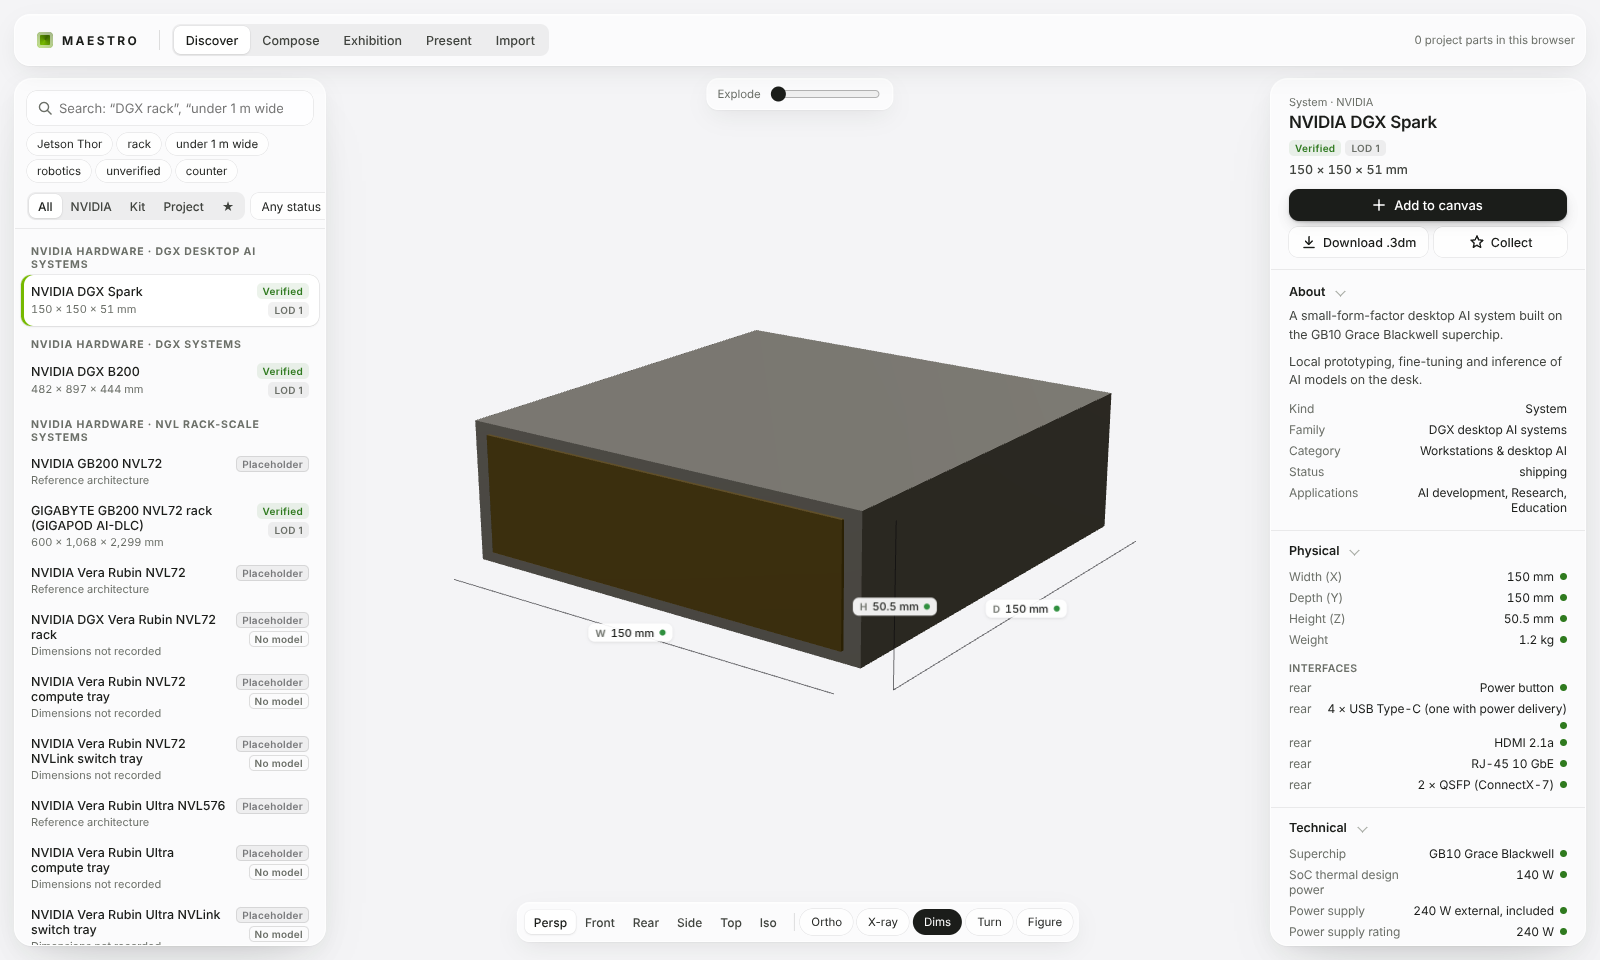
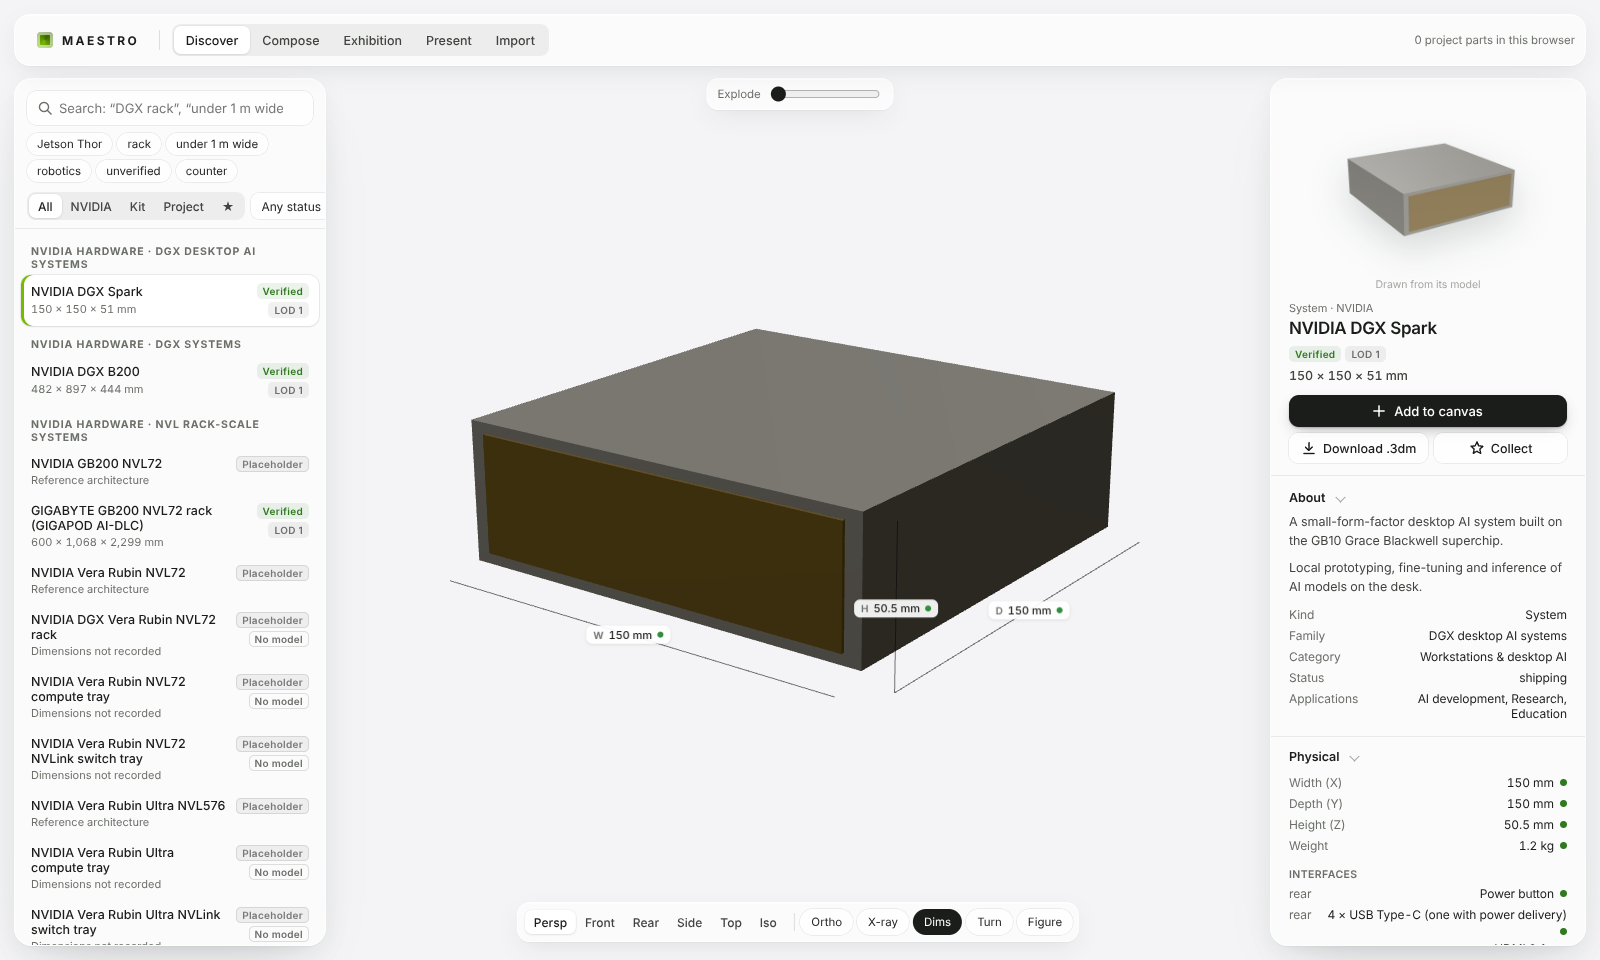
Round 12: floating product image in the inspector
Each product opens with a still drawn from its own model on a transparent
background, above its name. ProductModel.image is a slot for an official
photo, shown with its credit when present.

Claude-Session: https://claude.ai/code/session_01R2EsZ1VyhVPk1HQcY5H7gB

diff --git a/src/viewport/heroRender.ts b/src/viewport/heroRender.ts
@@ -1,0 +1,67 @@
+import * as THREE from 'three';
+import { RoomEnvironment } from 'three/examples/jsm/environments/RoomEnvironment.js';
+import type { Shape } from '../core/geometry/shape';
+import { MM, WORLD_ROTATION, makeMaterial, partGeometry } from './ShapeView';
+
+/**
+ * A product drawn from its own model as a still on a transparent background, three-quarter from the front left,
+ * for the image at the top of the inspector. One offscreen renderer serves every product; stills are cached.
+ */
+const W = 1200, H = 800;
+let renderer: THREE.WebGLRenderer | null = null;
+let env: THREE.Texture | null = null;
+const cache = new Map<string, string>();
+
+function setup(): THREE.WebGLRenderer {
+  if (renderer) return renderer;
+  renderer = new THREE.WebGLRenderer({ alpha: true, antialias: true, preserveDrawingBuffer: true });
+  renderer.setPixelRatio(1);
+  renderer.setSize(W, H, false);
+  renderer.setClearColor(0x000000, 0);
+  renderer.outputColorSpace = THREE.SRGBColorSpace;
+  renderer.toneMapping = THREE.ACESFilmicToneMapping;
+  renderer.toneMappingExposure = 0.85;
+  const pm = new THREE.PMREMGenerator(renderer);
+  env = pm.fromScene(new RoomEnvironment(), 0.04).texture;
+  pm.dispose();
+  return renderer;
+}
+
+/** a PNG data URL of the shape, or null when WebGL is unavailable */
+export function heroImage(key: string, shape: Shape): string | null {
+  const hit = cache.get(key);
+  if (hit) return hit;
+  let r: THREE.WebGLRenderer;
+  try { r = setup(); } catch { return null; }
+  const scene = new THREE.Scene();
+  scene.environment = env;
+  scene.environmentIntensity = 0.55;
+  scene.add(new THREE.HemisphereLight('#ffffff', '#d9d6d0', 0.6));
+  const key1 = new THREE.DirectionalLight('#ffffff', 1.6);
+  scene.add(key1);
+  const root = new THREE.Group();
+  root.rotation.copy(WORLD_ROTATION);
+  root.scale.setScalar(MM);
+  const geoms = shape.parts.map(partGeometry);
+  const mats = shape.parts.map((p) => makeMaterial(shape.materials[p.material], false));
+  geoms.forEach((g, i) => root.add(new THREE.Mesh(g, mats[i])));
+  scene.add(root);
+  root.updateMatrixWorld(true);
+  const box = new THREE.Box3().setFromObject(root);
+  const sphere = box.getBoundingSphere(new THREE.Sphere());
+  const centre = box.getCenter(new THREE.Vector3());
+  // three-quarter from the front left and a little above; the model's front faces −Y, which is +Z here
+  const dir = new THREE.Vector3(-0.62, 0.42, 1).normalize();
+  const cam = new THREE.PerspectiveCamera(24, W / H, 0.001, 1000);
+  const fit = sphere.radius / Math.sin(THREE.MathUtils.degToRad(cam.fov / 2)) * 1.04;
+  cam.position.copy(centre).addScaledVector(dir, fit);
+  cam.lookAt(centre);
+  cam.near = fit / 100; cam.far = fit * 10; cam.updateProjectionMatrix();
+  key1.position.copy(centre).add(new THREE.Vector3(-1, 2.2, 1.6).multiplyScalar(sphere.radius * 3));
+  r.render(scene, cam);
+  const url = r.domElement.toDataURL('image/png');
+  geoms.forEach((g) => g.dispose());
+  mats.forEach((m) => m.dispose());
+  cache.set(key, url);
+  return url;
+}

diff --git a/src/ui/ProductHero.tsx b/src/ui/ProductHero.tsx
@@ -1,0 +1,46 @@
+import { useEffect, useState } from 'react';
+import { MODEL_BY_ID } from '../core/catalog/products';
+import { SOURCE_BY_ID } from '../core/catalog/sources';
+import { resolveRef, type LibraryEntry } from '../core/library';
+import type { ItemRef } from '../core/schema';
+import type { Shape } from '../core/geometry/shape';
+import { heroImage } from '../viewport/heroRender';
+import { useStore } from './store';
+
+/**
+ * The product floating at the top of the inspector: its official photo when the catalog has one, otherwise a
+ * still drawn from its own model. A reference architecture shows the first product that implements it.
+ */
+export function ProductHero({ refItem, entry, shape }: { refItem: ItemRef; entry: LibraryEntry; shape: Shape | null }) {
+  const parts = useStore((s) => s.parts);
+  const model = refItem.kind === 'product' ? MODEL_BY_ID.get(refItem.id) : undefined;
+  const photo = model?.image;
+  const impl = !shape && model?.implementations?.length ? model.implementations[0] : null;
+  const drawn = shape ?? (impl ? resolveRef({ kind: 'product', id: impl }, parts)?.shape ?? null : null);
+  const [src, setSrc] = useState<string | null>(null);
+  const [failed, setFailed] = useState(false);
+  useEffect(() => {
+    setFailed(false);
+    if (photo || !drawn) { setSrc(null); return; }
+    // render after the panel paints, so selecting stays instant
+    const t = setTimeout(() => setSrc(heroImage(`${entry.key}:${impl ?? ''}`, drawn)), 0);
+    return () => clearTimeout(t);
+  }, [photo, drawn, entry.key, impl]);
+  if (photo && !failed) {
+    const s = photo.src.includes('://') ? photo.src : `${import.meta.env.BASE_URL}${photo.src}`;
+    const from = SOURCE_BY_ID.get(photo.sourceId);
+    return (
+      <figure className="hero">
+        <img src={s} alt={entry.name} onError={() => setFailed(true)} />
+        <figcaption>Image: {from ? <a href={from.url} target="_blank" rel="noreferrer">{photo.credit}</a> : photo.credit}</figcaption>
+      </figure>
+    );
+  }
+  if (!drawn) return null;
+  return (
+    <figure className="hero">
+      {src ? <img src={src} alt={entry.name} /> : <span className="hero-wait" />}
+      <figcaption>{impl ? `Drawn from its model: ${MODEL_BY_ID.get(impl)?.name ?? impl}` : 'Drawn from its model'}</figcaption>
+    </figure>
+  );
+}

diff --git a/src/ui/styles.css b/src/ui/styles.css
@@ -420,3 +420,14 @@ button:focus-visible, input:focus-visible, select:focus-visible, textarea:focus-
 .preset-foot { display: flex; gap: 8px; border-top: 0.5px solid var(--line-2); padding-top: 10px; }
 .svc-built { display: flex; flex-direction: column; gap: 2px; font-size: 10.5px; color: var(--ink-3); }
 .svc-built select { width: 100%; font-size: 12px; }
+.deck-access { display: flex; align-items: center; gap: 6px; font-size: 12px; margin-top: 6px; }
+.deck-access > span { width: 34px; color: var(--ink-2); }
+.deck-access select { flex: 1; }
+.deck-access label { display: flex; align-items: center; gap: 4px; color: var(--ink-2); }
+.deck-access label input { width: 72px; }
+
+/* ── product image floating at the top of the inspector ───────────────────── */
+.hero { margin: -4px 0 10px; display: flex; flex-direction: column; align-items: center; gap: 2px; }
+.hero img, .hero-wait { width: 100%; aspect-ratio: 3 / 2; object-fit: contain; display: block; filter: drop-shadow(0 14px 18px rgba(20, 30, 20, .16)); }
+.hero figcaption { font-size: 10.5px; color: var(--ink-4); }
+.hero figcaption a { color: inherit; }

diff --git a/src/ui/Inspector.tsx b/src/ui/Inspector.tsx
@@ -8,6 +8,7 @@ import { checkState } from '../ingest/pipeline';
 import { useStore } from './store';
 import { Icon, KV, LodBadge, Section, VBadge, dims3, mm } from './common';
 import { exportItemFile } from './exportActions';
+import { ProductHero } from './ProductHero';
 
 export function Inspector({ refItem }: { refItem: ItemRef | null }) {
   const parts = useStore((s) => s.parts);
@@ -34,6 +35,7 @@ function Header({ r, refItem }: { r: NonNullable<ReturnType<typeof resolveRef>>;
   const physical = !!r.shape;
   return (
     <div className="insp-head">
+      <ProductHero refItem={refItem} entry={e} shape={r.shape} />
       <div className="insp-kicker">{e.subtitle}</div>
       <h2 className="insp-title">{e.name}</h2>
       <div className="insp-badges">

diff --git a/src/core/schema.ts b/src/core/schema.ts
@@ -125,6 +125,16 @@ export interface ProductModel {
   tags: string[];
   sources: string[];
   lastReviewed: string;
+  /** an official product photo for the inspector, cut out on a transparent background; without one the product is drawn from its model */
+  image?: ProductImage;
+}
+
+export interface ProductImage {
+  /** a file in public/products/ or a full URL */
+  src: string;
+  /** the page the photo was taken from */
+  sourceId: string;
+  credit: string;
 }
 
 export interface Interface {

diff --git a/README.md b/README.md
@@ -14,12 +14,12 @@
 
 ![Import: two revisions of a synthetic model compared block by block, with the library parts they affect](docs/screenshots/25-import-revision-diff.png)
 
-## Status after Round 11
+## Status after Round 12
 
 | Area | What works now |
 |---|---|
 | Catalog | 46 product records in 14 families. Round 01 seeded DGX Spark, DGX B200, GB200 NVL72, RTX PRO 6000 Max-Q, Jetson and Isaac GR00T. Round 02 added the current line-up: five DGX Station (GB300) systems from Dell, GIGABYTE, HP, MSI and Supermicro; RTX PRO 6000 Workstation Edition and RTX PRO 5000; RTX PRO Server and Aerial RAN Computer; four Spectrum-6 switches including the Spectrum-X Ethernet Photonics SN6800-LD and SN6810-LD; ConnectX-9 and BlueField-4; BlueField-4 STX and CMX storage; Groq 3 LPX; Vera Rubin NVL72 racks and trays; Vera Rubin Ultra NVL576; the Vera CPU rack. Each value is labelled **Verified**, **Project-specific**, **Estimated** or **Placeholder** and links to its source. 19 products are drawn; the rest have no published mechanical specification yet and are recorded with their stated facts only. Nothing without dimensions is drawn. |
-| Discover | Search with plain phrases ("under 1 m wide", "taller than 2m", "unverified"), filters by section and status, a collection, a studio viewer with dimension lines coloured by status, camera presets, orthographic, X-ray, turntable, a 1.75 m scale figure, exploded view and part isolation. The inspector shows every spec with its source and status, implementations and related products, and the raw record. |
+| Discover | Search with plain phrases ("under 1 m wide", "taller than 2m", "unverified"), filters by section and status, a collection, a studio viewer with dimension lines coloured by status, camera presets, orthographic, X-ray, turntable, a 1.75 m scale figure, exploded view and part isolation. The inspector opens with the product floating on a transparent background, drawn from its own model (a reference architecture shows the first product that implements it); a product can carry an official photo instead, with its credit and source, once one is cut out and added. It then shows every spec with its source and status, implementations and related products, and the raw record. |
 | Kit of parts | A parametric demo counter (with an accessible section at 860 mm and a display on a post), a hardware light table and a gallery wall niche. All are labelled Estimated: they are design inputs until a project approves them. |
 | Compose | Place products, kit parts and approved project parts on a floor grid. Move and rotate with a gizmo (10 mm and 15° snaps) or by numbers; **Snap** butts faces and lines up edges and centres with nearby items within 40 mm. **Place on surface** (P) stands an item on the worktop, light table, niche base or shelf under it, and pressing again steps through the shelves; adding a product while a kit part is selected puts it straight onto that part. Duplicate, group, align, distribute, undo and redo. **Templates** insert ready-made modules as a group: DGX Spark demo counter, accessible counter, DGX Station podium, RTX PRO board niche, Spectrum-X switch table. A **power and data** schedule sums only stated figures for items marked live (systems by default, boards and trays static), counts what is unknown, and downloads as CSV. An **A3 sheet** draws plan and front elevation to a standard scale with overall dimensions, item tags and a list with verification statuses, as SVG or printed to PDF. Modules save in the browser and as `.maestro.json`. |
 | Exhibition | A booth plot (width, depth, open sides, hall aisle, height limit), each value with its status. Place saved modules or templates as groups: each lands in the first free spot a route width clear of the others, and is flagged when its saved module is edited later. **Circulation** checks the plan on a grid: every part below the headroom is an obstacle, and a wheelchair route of the set width, entering from an open side, shows as green floor, darker where a turning circle fits; open floor it cannot reach shows orange. Every module needs an accessible approach zone in front of it. Items outside the plot or over the height limit are errors. **Service points** (power, data or both, with an optional stated capacity) feed each live module from the nearest point; floor runs and stated loads are listed, and a point over its capacity is an error. The clearances start from a **rule set**, ADA 2010 (US reference) or DIN 18040-1 (Germany), every value marked Estimated with its reference until it is checked, and are then set per venue. A placed module whose saved source was edited since is listed with a **Refresh** button that replaces it with the current version at the same spot, turned the same way, keeping its name and document links. Outputs: an **A3 booth plan** (plot, aisles, parts, module tags, approach zones, narrow floor, service points, module schedule and open checks), a **booth schedule CSV**, and the `.3dm` with the plot, service points, approach zones and narrow floor as curves on their own layers. **Columns** from the hall plan (position and size, Placeholder until typed) are full-height obstacles: they take floor out of the route, new modules land clear of them, a module that runs into one is an error, and they are drawn on the booth plan, in 3D and on their own `.3dm` layer. **Show presets** start an exhibition from a booth the team has actually built: a dropdown in the toolbar, as in Stagework, lists them by show (GTC San Jose, GTC Berlin, GTC DC, CES Las Vegas), each with a small plan, plus the synthetic sample and the exhibitions saved in this browser. **GTC Berlin 2026** ships with the site, built from the show's Rhino model: the stepped plot, hall columns and every piece where it stood, with names from the fabrication deck and the detailed 3D parts (fetched the first time it is opened). Parts not yet checked against the fabrication drawings are marked Estimated. More shows are added the same way, and a team can also load its own `*.maestro-shows.json` file, which carries booths and parts together. Choosing one opens a copy; the preset is unchanged. Plots can be **stepped**: an outline from the show's model drives the floor, the walls, the route grid, the outside-the-plot check (which follows the item's geometry where its extent crosses a step) and the plan sheet and `.3dm`. A column can be marked as built around by the item that encloses it, such as a shroud or a kiosk, so it is not reported as a clash. A module near an aisle with its back to it is flagged, and one facing a closed side without an approach is offered a **Face aisle** turn to its nearest aisle. A synthetic sample booth built from the templates loads on first open. |

diff --git a/docs/RESEARCH.md b/docs/RESEARCH.md
@@ -143,3 +143,4 @@ The first project model is large (tens of thousands of objects, many blocks, aut
 | 09 | Done: stand types (inline, corner, peninsula, island) that set the open sides, a check for modules with their back to a nearby aisle, a one-click turn to face the nearest aisle (also offered when a module faces a closed side), a sample island booth with back-to-back modules, and the stand type on the A3 booth plan. Still open: multi-level stands, venue rules for island stands (back-wall height and see-through limits vary by venue and are not modelled), checking the DIN figures against the standard itself, materials beyond the proxy palette, cable routes |
 | 10 | Withdrawn: stacked decks and the two-storey sample were not something the team builds, and were reverted in Round 11 |
 | 11 | Done: show presets from the booths actually built (a Stagework-style dropdown by show, loaded from a private presets file with its project parts), stepped plot outlines in the checks, 3D, plan sheet and `.3dm`, columns an item is built around. Removed: the invented stand types and island sample. GTC Berlin 2026 is built from the Kit Master assembly and the R4 boundary and ships with the site. Still open: GTC San Jose, GTC DC and CES Las Vegas presets once their models are in, checking the DIN figures against the standard itself, materials beyond the proxy palette, cable routes |
+| 12 | Done: a floating product image at the top of the inspector, drawn from each product's model on a transparent background, with a slot for an official photo per product. Still open: official photos, which need the makers' sites (nvidia.com, dell.com, gigabyte.com, msi.com, hp.com, supermicro.com, hpe.com, qct.io) allowed in the environment so they can be downloaded, cut out and checked |
